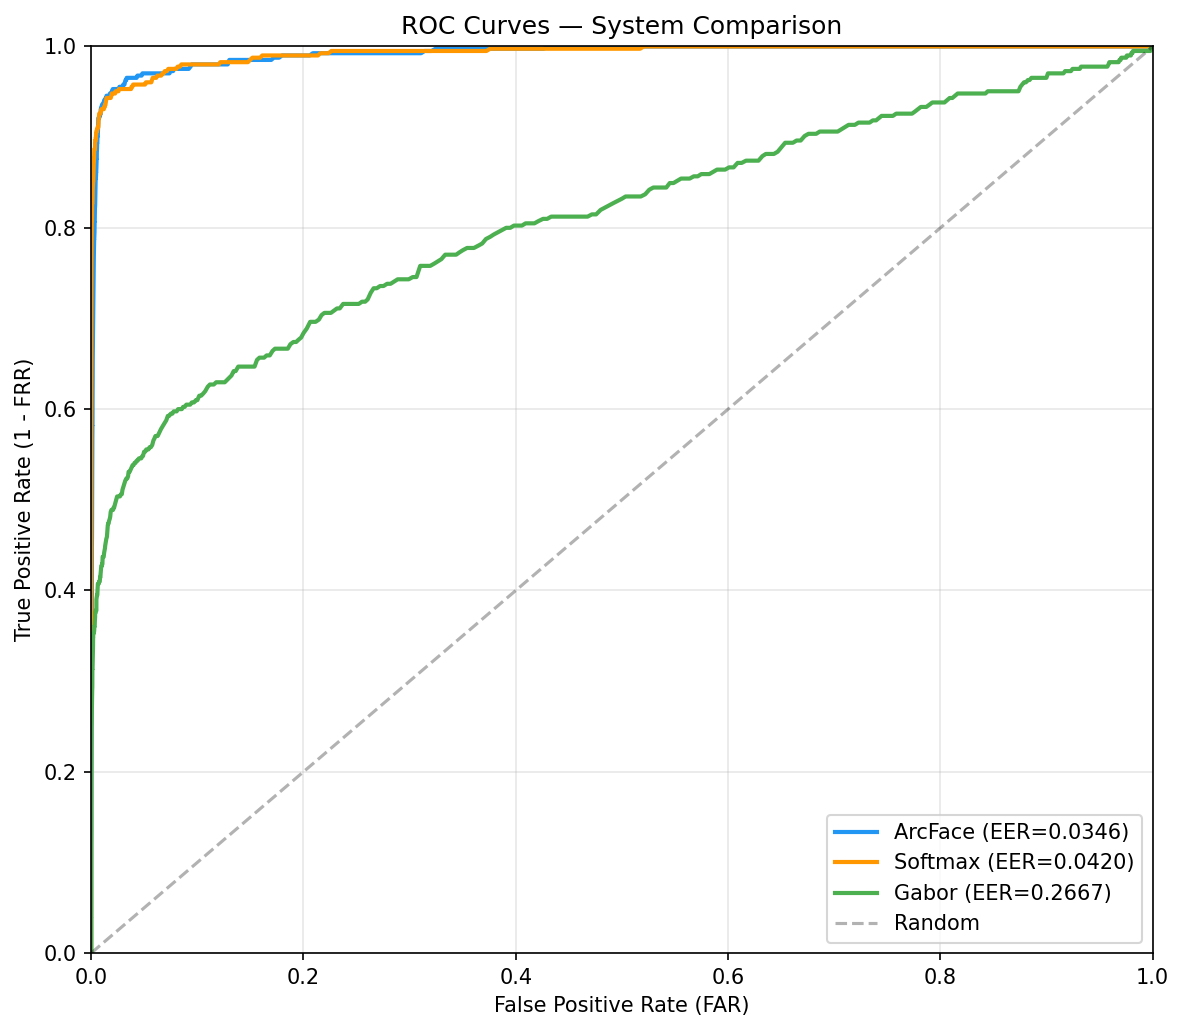
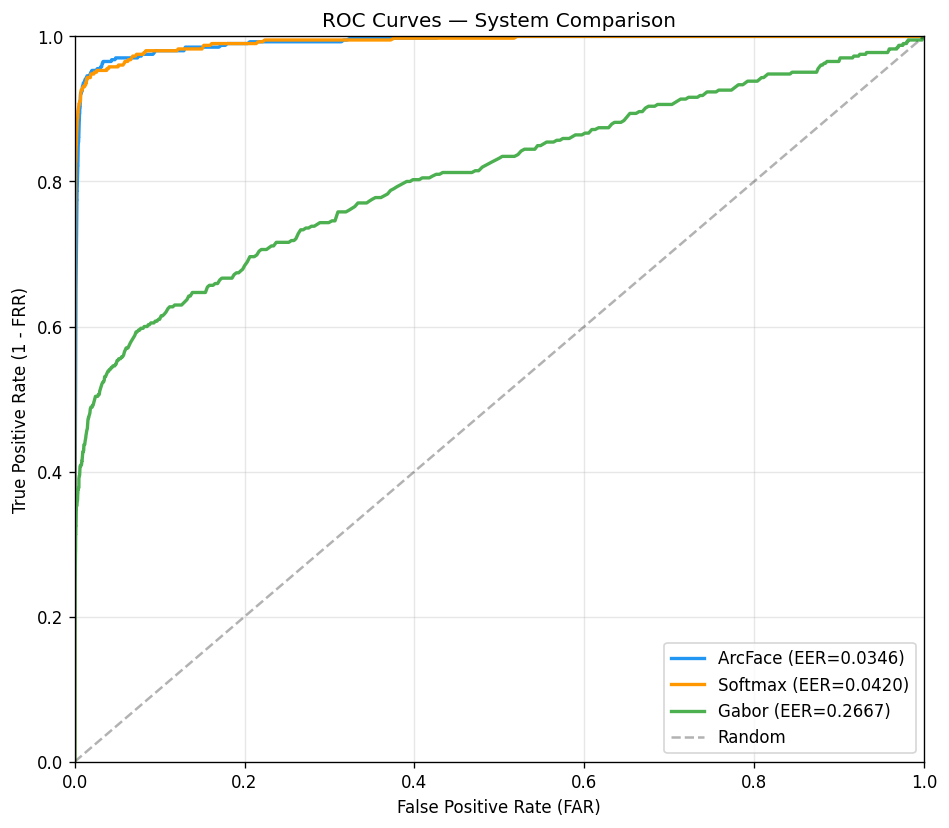
feat(eval): closed-set results JSON for symmetry with open-set
Mirrors reports/phase7_openset_results.json with the equivalent
closed-set artefact so both protocols are JSON-discoverable. Also
adds per-system genuine/impostor pair counts to the JSON, which the
earlier closed-set summary lacked.

Re-runs the closed-set evaluation end-to-end and regenerates the six
figures in figures/. Numbers are unchanged from the Phase 6 report
(ArcFace 3.46% / Softmax 4.20% / Gabor 26.67% EER).

diff --git a/scripts/run_evaluation.py b/scripts/run_evaluation.py
@@ -175,6 +175,8 @@ def run(openset: bool = False):
             'genuine_mean':      float(gen.mean()),
             'impostor_mean':     float(imp.mean()),
             'gap':               float(gen.mean() - imp.mean()),
+            'genuine_pairs':     int(len(gen)),
+            'impostor_pairs':    int(len(imp)),
         }
 
     os.makedirs(os.path.dirname(results_json), exist_ok=True)
